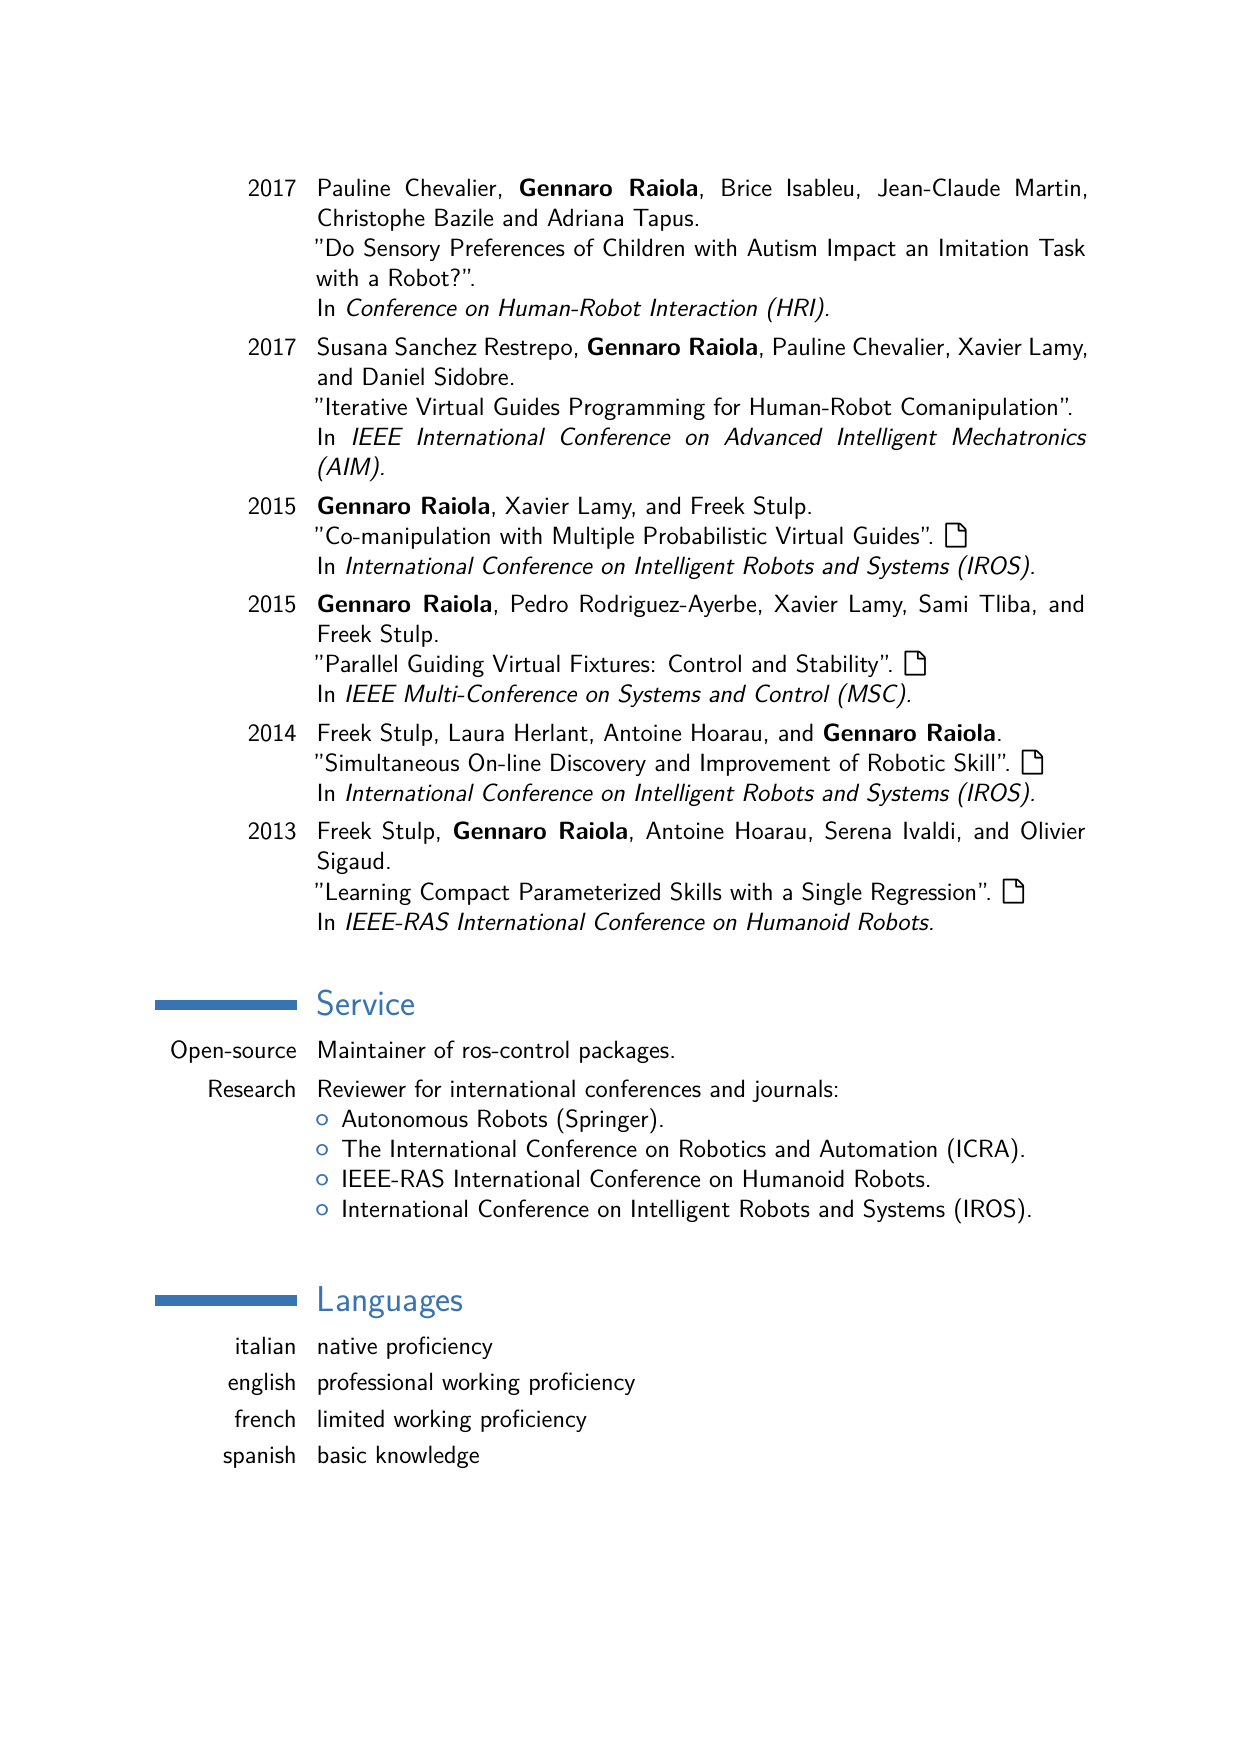
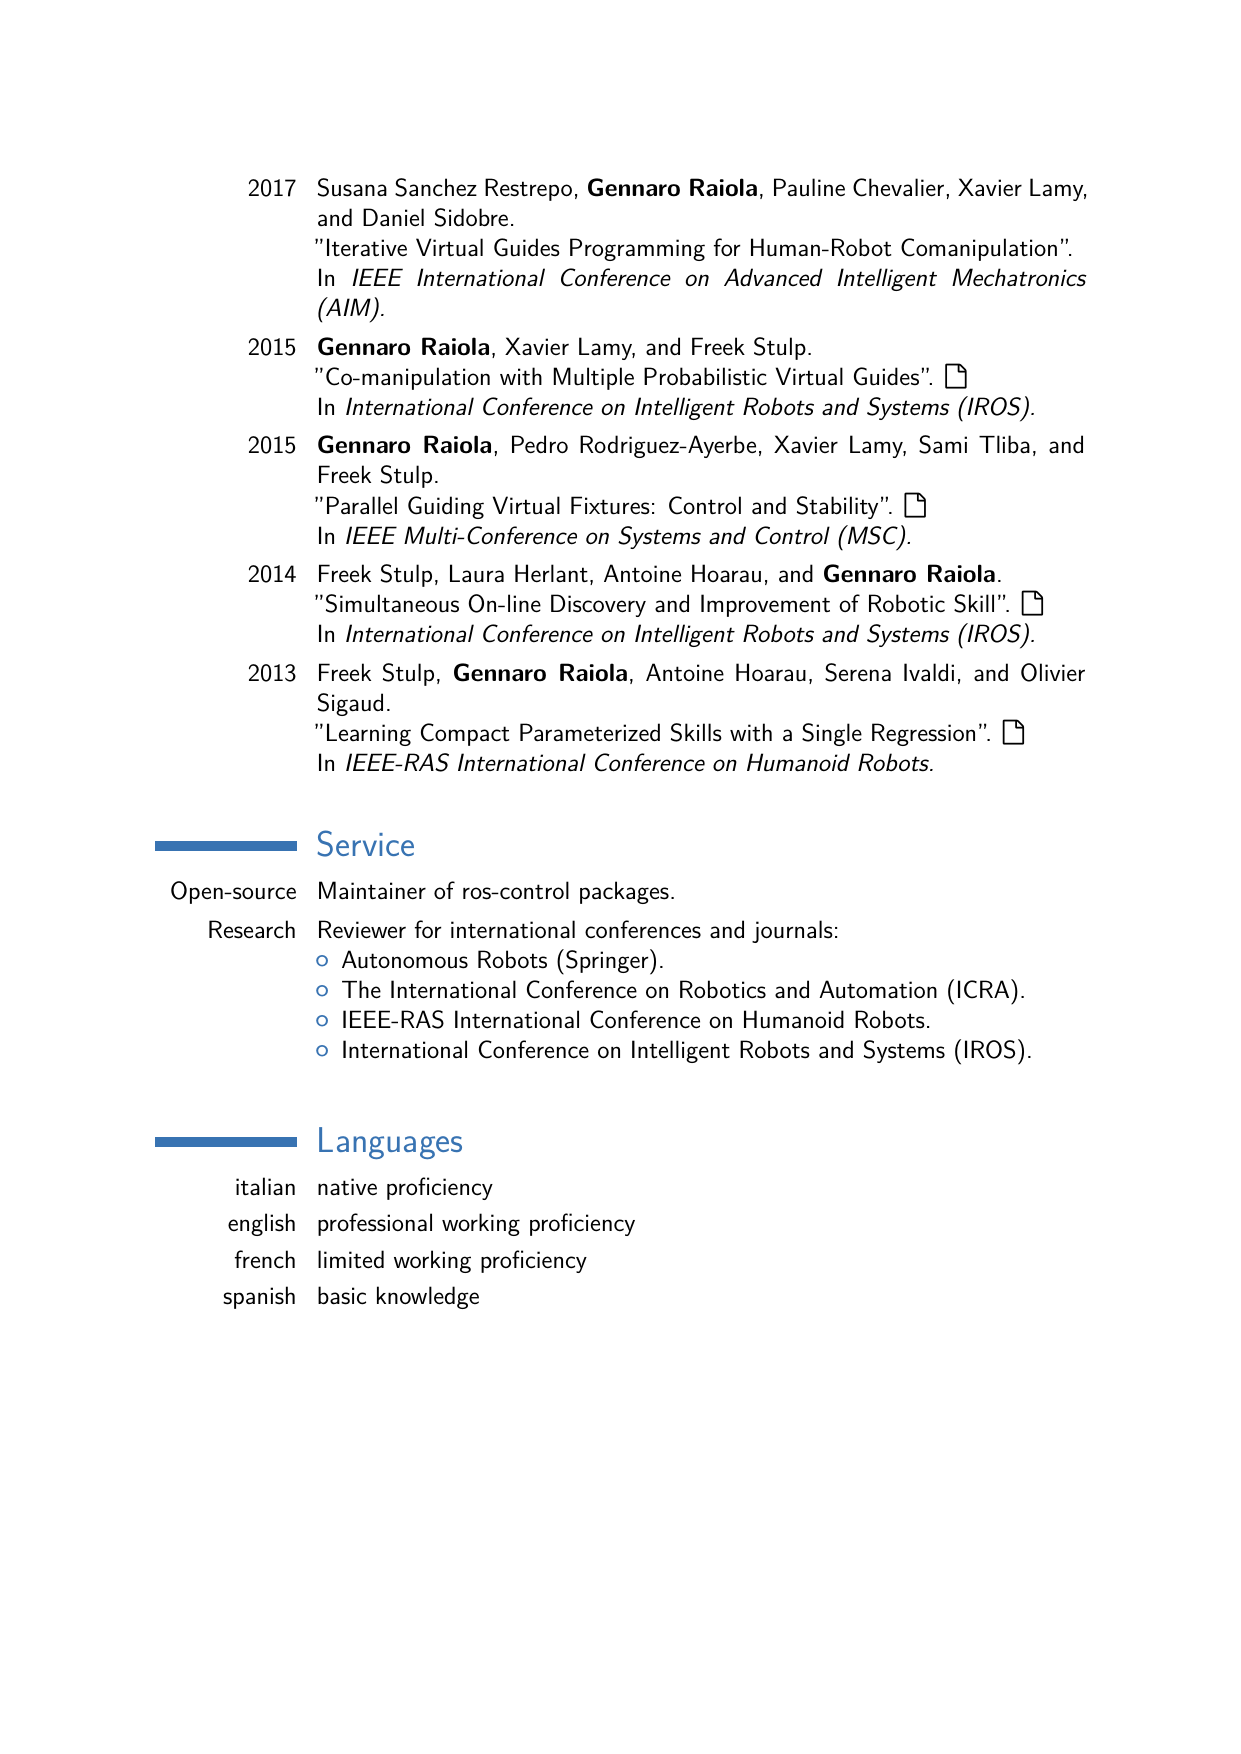
Generated files updated on Thu Nov  9 23:58:23 CET 2017

Changed region(s): [[0.1225, 0.0924, 0.888, 0.8312], [0.8268, 0.4618, 0.8574, 0.4926], [0.7961, 0.4926, 0.8268, 0.5234]]

diff --git a/CV_Gennaro-Raiola.tex b/CV_Gennaro-Raiola.tex
@@ -158,11 +158,11 @@
 \footnotesize{Integration of the stack of tasks inverse kinematics solver on the Reem-H and Reem-C robots at PAL Robotics.}}
 
 
-\section{Publications}
-\cvitem{2017}{\textbf{Gennaro Raiola}, Carlos Cardenas Alberto, Tadele Shiferaw Tadele, Theo De Vries, Stefano Stramigioli. \newline{}
-"Development of a Safety-Aware Intrinsically Passive Controller for Collaborative Robots ".
-\newline
-Under review in \emph{IEEE Robotics and Automation Letters.}}
+%\section{Publications}
+%\cvitem{2017}{\textbf{Gennaro Raiola}, Carlos Cardenas Alberto, Tadele Shiferaw Tadele, Theo De %Vries, Stefano Stramigioli. \newline{}
+%"Development of a Safety-Aware Intrinsically Passive Controller for Collaborative Robots ".
+%\newline
+%Under review in \emph{IEEE Robotics and Automation Letters.}}
 
 \cvitem{2017}{\textbf{Gennaro Raiola}, Susana Sanchez Restrepo, Pauline Chevalier, et al. \newline{}
 "Co-manipulation with a Library of Virtual Guiding Fixtures".
